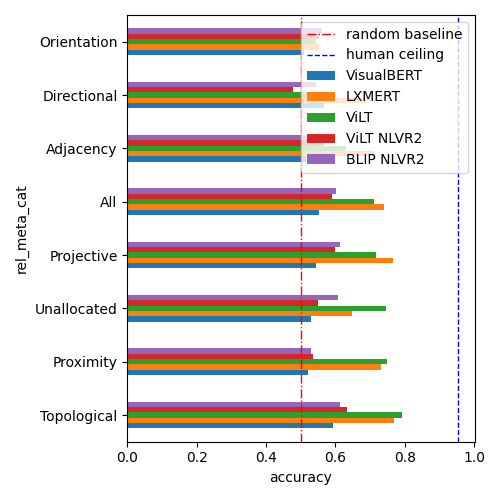
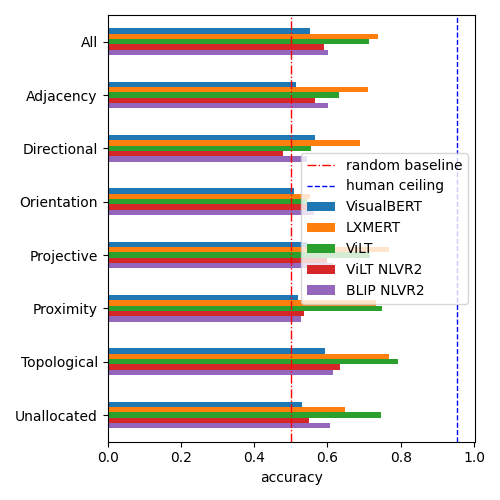
update vsr relation and meta cat results and plots

diff --git a/visual-spatial-reasoning/analysis_scripts/barplot_rel_zeroshot.py b/visual-spatial-reasoning/analysis_scripts/barplot_rel_zeroshot.py
@@ -1,30 +1,34 @@
 from matplotlib import pyplot as plt
 import pandas as pd
 
-df = pd.read_csv("results/vilt_zeroshot_rel.tsv", sep="\t", index_col=0, names=["rel", "ViLT", "occur"])
-df = df[df["occur"] >= 5]
+df_visualbert = pd.read_csv("results/visualbert_zeroshot_rel.tsv", sep="\t", index_col=0, names=["relation", "VisualBERT", "number"])
+df_visualbert = df_visualbert[["number", "VisualBERT"]]
+df = df_visualbert
 
-df_nlvr2 = pd.read_csv("results/vilt_nlvr2_zeroshot_rel.tsv", sep="\t", index_col=0, names=["rel", "ViLT NLVR2", "occur"])
-df_nlvr2 = df_nlvr2[df_nlvr2["occur"] >= 5]
-df["ViLT NLVR2"] = df_nlvr2["ViLT NLVR2"]
-
-df_nlvr2 = pd.read_csv("results/blip_nlvr2_zeroshot_rel.tsv", sep="\t", index_col=0, names=["rel", "BLIP NLVR2", "occur"])
-df_nlvr2 = df_nlvr2[df_nlvr2["occur"] >= 5]
-df["BLIP NLVR2"] = df_nlvr2["BLIP NLVR2"]
-
-df_visualbert = pd.read_csv("results/visualbert_zeroshot_rel.tsv", sep="\t", index_col=0, names=["rel", "VisualBERT", "occur"])
-df_visualbert = df_visualbert[df_visualbert["occur"] >= 5]
-df["VisualBERT"] = df_visualbert["VisualBERT"]
-
-df_lxmert = pd.read_csv("results/lxmert_zeroshot_rel.tsv", sep="\t", index_col=0, names=["rel", "LXMERT", "occur"])
-df_lxmert = df_lxmert[df_lxmert["occur"] >= 5]
+df_lxmert = pd.read_csv("results/lxmert_zeroshot_rel.tsv", sep="\t", index_col=0, names=["relation", "LXMERT", "number"])
 df["LXMERT"] = df_lxmert["LXMERT"]
+
+df_vilt = pd.read_csv("results/vilt_zeroshot_rel.tsv", sep="\t", index_col=0, names=["relation", "ViLT", "number"])
+df["ViLT"] = df_vilt["ViLT"]
+
+df_vilt_nlvr2 = pd.read_csv("results/vilt_nlvr2_zeroshot_rel.tsv", sep="\t", index_col=0, names=["relation", "ViLT NLVR2", "number"])
+df["ViLT NLVR2"] = df_vilt_nlvr2["ViLT NLVR2"]
+
+df_blip_nlvr2 = pd.read_csv("results/blip_nlvr2_zeroshot_rel.tsv", sep="\t", index_col=0, names=["relation", "BLIP NLVR2", "number"])
+df["BLIP NLVR2"] = df_blip_nlvr2["BLIP NLVR2"]
+
+df.round(2).to_csv("results/zeroshot_rel.tsv", sep="\t")
+
+df = df[df["number"] >= 5]
+
+df.round(2).to_latex("results/zeroshot_rel.tex")
 
 ax = df.plot.bar(y=["VisualBERT", "LXMERT", "ViLT", "ViLT NLVR2", "BLIP NLVR2"], figsize=(15,5))
 
 plt.axhline(y=0.5, linewidth=1, color='r', linestyle="dashdot", label="random baseline")
 plt.axhline(y=0.954, linewidth=1, color='b', linestyle="dashed", label="human ceiling")
 plt.legend()
+plt.xlabel("")
 plt.ylabel("accuracy")
 plt.tight_layout()
 

diff --git a/visual-spatial-reasoning/analysis_scripts/barplot_rel_random.py b/visual-spatial-reasoning/analysis_scripts/barplot_rel_random.py
@@ -1,30 +1,34 @@
 from matplotlib import pyplot as plt
 import pandas as pd
 
-df = pd.read_csv("results/vilt_random_rel.tsv", sep="\t", index_col=0, names=["rel", "ViLT", "occur"])
-df = df[df["occur"] >= 15]
+df_visualbert = pd.read_csv("results/visualbert_random_rel.tsv", sep="\t", index_col=0, names=["relation", "VisualBERT", "number"])
+df_visualbert = df_visualbert[["number", "VisualBERT"]]
+df = df_visualbert
 
-df_nlvr2 = pd.read_csv("results/vilt_nlvr2_random_rel.tsv", sep="\t", index_col=0, names=["rel", "ViLT NLVR2", "occur"])
-df_nlvr2 = df_nlvr2[df_nlvr2["occur"] >= 15]
-df["ViLT NLVR2"] = df_nlvr2["ViLT NLVR2"]
-
-df_nlvr2 = pd.read_csv("results/blip_nlvr2_random_rel.tsv", sep="\t", index_col=0, names=["rel", "BLIP NLVR2", "occur"])
-df_nlvr2 = df_nlvr2[df_nlvr2["occur"] >= 15]
-df["BLIP NLVR2"] = df_nlvr2["BLIP NLVR2"]
-
-df_visualbert = pd.read_csv("results/visualbert_random_rel.tsv", sep="\t", index_col=0, names=["rel", "VisualBERT", "occur"])
-df_visualbert = df_visualbert[df_visualbert["occur"] >= 15]
-df["VisualBERT"] = df_visualbert["VisualBERT"]
-
-df_lxmert = pd.read_csv("results/lxmert_random_rel.tsv", sep="\t", index_col=0, names=["rel", "LXMERT", "occur"])
-df_lxmert = df_lxmert[df_lxmert["occur"] >= 15]
+df_lxmert = pd.read_csv("results/lxmert_random_rel.tsv", sep="\t", index_col=0, names=["relation", "LXMERT", "number"])
 df["LXMERT"] = df_lxmert["LXMERT"]
+
+df_vilt = pd.read_csv("results/vilt_random_rel.tsv", sep="\t", index_col=0, names=["relation", "ViLT", "number"])
+df["ViLT"] = df_vilt["ViLT"]
+
+df_vilt_nlvr2 = pd.read_csv("results/vilt_nlvr2_random_rel.tsv", sep="\t", index_col=0, names=["relation", "ViLT NLVR2", "number"])
+df["ViLT NLVR2"] = df_vilt_nlvr2["ViLT NLVR2"]
+
+df_blip_nlvr2 = pd.read_csv("results/blip_nlvr2_random_rel.tsv", sep="\t", index_col=0, names=["relation", "BLIP NLVR2", "number"])
+df["BLIP NLVR2"] = df_blip_nlvr2["BLIP NLVR2"]
+
+df.round(2).to_csv("results/random_rel.tsv", sep="\t")
+
+df = df[df["number"] >= 15]
+
+df.round(2).to_latex("results/random_rel.tex")
 
 ax = df.plot.bar(y=["VisualBERT", "LXMERT", "ViLT", "ViLT NLVR2", "BLIP NLVR2"], figsize=(15,5))
 
 plt.axhline(y=0.5, linewidth=1, color='r', linestyle="dashdot", label="random baseline")
 plt.axhline(y=0.954, linewidth=1, color='b', linestyle="dashed", label="human ceiling")
 plt.legend()
+plt.xlabel("")
 plt.ylabel("accuracy")
 plt.tight_layout()
 

diff --git a/visual-spatial-reasoning/analysis_scripts/barplot_rel_meta_cat_zeroshot.py b/visual-spatial-reasoning/analysis_scripts/barplot_rel_meta_cat_zeroshot.py
@@ -1,26 +1,33 @@
 from matplotlib import pyplot as plt
 import pandas as pd
 
-df = pd.read_csv("results/vilt_zeroshot_rel_meta_cat.tsv", sep="\t", index_col=0, names=["rel_meta_cat", "ViLT", "occur"])
+df_visualbert = pd.read_csv("results/visualbert_zeroshot_rel_meta_cat.tsv", sep="\t", index_col=0, names=["category", "VisualBERT", "number"])
+df_visualbert = df_visualbert[["number", "VisualBERT"]]
+df = df_visualbert
 
-df_nlvr2 = pd.read_csv("results/vilt_nlvr2_zeroshot_rel_meta_cat.tsv", sep="\t", index_col=0, names=["rel_meta_cat", "ViLT NLVR2", "occur"])
-df["ViLT NLVR2"] = df_nlvr2["ViLT NLVR2"]
-
-df_blip_nlvr2 = pd.read_csv("results/blip_nlvr2_zeroshot_rel_meta_cat.tsv", sep="\t", index_col=0, names=["rel_meta_cat", "BLIP NLVR2", "occur"])
-df["BLIP NLVR2"] = df_blip_nlvr2["BLIP NLVR2"]
-
-df_visualbert = pd.read_csv("results/visualbert_zeroshot_rel_meta_cat.tsv", sep="\t", index_col=0, names=["rel", "VisualBERT", "occur"])
-df["VisualBERT"] = df_visualbert["VisualBERT"]
-
-df_lxmert = pd.read_csv("results/lxmert_zeroshot_rel_meta_cat.tsv", sep="\t", index_col=0, names=["rel", "LXMERT", "occur"])
+df_lxmert = pd.read_csv("results/lxmert_zeroshot_rel_meta_cat.tsv", sep="\t", index_col=0, names=["category", "LXMERT", "number"])
 df["LXMERT"] = df_lxmert["LXMERT"]
 
+df_vilt = pd.read_csv("results/vilt_zeroshot_rel_meta_cat.tsv", sep="\t", index_col=0, names=["category", "ViLT", "number"])
+df["ViLT"] = df_vilt["ViLT"]
+
+df_nlvr2 = pd.read_csv("results/vilt_nlvr2_zeroshot_rel_meta_cat.tsv", sep="\t", index_col=0, names=["category", "ViLT NLVR2", "number"])
+df["ViLT NLVR2"] = df_nlvr2["ViLT NLVR2"]
+
+df_blip_nlvr2 = pd.read_csv("results/blip_nlvr2_zeroshot_rel_meta_cat.tsv", sep="\t", index_col=0, names=["category", "BLIP NLVR2", "number"])
+df["BLIP NLVR2"] = df_blip_nlvr2["BLIP NLVR2"]
+
 ax = df.plot.barh(y=["VisualBERT", "LXMERT", "ViLT", "ViLT NLVR2", "BLIP NLVR2"], figsize=(5,5))
+
+df.round(2).to_csv("results/zeroshot_rel_meta_cat.tsv", sep="\t")
+df.round(2).to_latex("results/zeroshot_rel_meta_cat.tex")
 
 plt.axvline(x=0.5, linewidth=1, color='r', linestyle="dashdot", label="random baseline")
 plt.axvline(x=0.954, linewidth=1, color='b', linestyle="dashed", label="human ceiling")
 plt.legend()
 plt.xlabel("accuracy")
+plt.ylabel("")
+plt.gca().invert_yaxis()
 plt.tight_layout()
 
 fig = ax.get_figure()

diff --git a/visual-spatial-reasoning/analysis_scripts/barplot_rel_meta_cat_random.py b/visual-spatial-reasoning/analysis_scripts/barplot_rel_meta_cat_random.py
@@ -1,19 +1,24 @@
 from matplotlib import pyplot as plt
 import pandas as pd
 
-df = pd.read_csv("results/vilt_random_rel_meta_cat.tsv", sep="\t", index_col=0, names=["rel_meta_cat", "ViLT", "occur"])
+df_visualbert = pd.read_csv("results/visualbert_random_rel_meta_cat.tsv", sep="\t", index_col=0, names=["category", "VisualBERT", "number"])
+df_visualbert = df_visualbert[["number", "VisualBERT"]]
+df = df_visualbert
 
-df_nlvr2 = pd.read_csv("results/vilt_nlvr2_random_rel_meta_cat.tsv", sep="\t", index_col=0, names=["rel_meta_cat", "ViLT NLVR2", "occur"])
+df_lxmert = pd.read_csv("results/lxmert_random_rel_meta_cat.tsv", sep="\t", index_col=0, names=["category", "LXMERT", "number"])
+df["LXMERT"] = df_lxmert["LXMERT"]
+
+df_vilt = pd.read_csv("results/vilt_random_rel_meta_cat.tsv", sep="\t", index_col=0, names=["category", "ViLT", "number"])
+df["ViLT"] = df_vilt["ViLT"]
+
+df_nlvr2 = pd.read_csv("results/vilt_nlvr2_random_rel_meta_cat.tsv", sep="\t", index_col=0, names=["category", "ViLT NLVR2", "number"])
 df["ViLT NLVR2"] = df_nlvr2["ViLT NLVR2"]
 
-df_blip_nlvr2 = pd.read_csv("results/blip_nlvr2_random_rel_meta_cat.tsv", sep="\t", index_col=0, names=["rel_meta_cat", "BLIP NLVR2", "occur"])
+df_blip_nlvr2 = pd.read_csv("results/blip_nlvr2_random_rel_meta_cat.tsv", sep="\t", index_col=0, names=["category", "BLIP NLVR2", "number"])
 df["BLIP NLVR2"] = df_blip_nlvr2["BLIP NLVR2"]
 
-df_visualbert = pd.read_csv("results/visualbert_random_rel_meta_cat.tsv", sep="\t", index_col=0, names=["rel", "VisualBERT", "occur"])
-df["VisualBERT"] = df_visualbert["VisualBERT"]
-
-df_lxmert = pd.read_csv("results/lxmert_random_rel_meta_cat.tsv", sep="\t", index_col=0, names=["rel", "LXMERT", "occur"])
-df["LXMERT"] = df_lxmert["LXMERT"]
+df.round(2).to_csv("results/random_rel_meta_cat.tsv", sep="\t")
+df.round(2).to_latex("results/random_rel_meta_cat.tex")
 
 ax = df.plot.barh(y=["VisualBERT", "LXMERT", "ViLT", "ViLT NLVR2", "BLIP NLVR2"], figsize=(5,5))
 
@@ -21,6 +26,8 @@ plt.axvline(x=0.5, linewidth=1, color='r', linestyle="dashdot", label="random ba
 plt.axvline(x=0.954, linewidth=1, color='b', linestyle="dashed", label="human ceiling")
 plt.legend()
 plt.xlabel("accuracy")
+plt.ylabel("")
+plt.gca().invert_yaxis()
 plt.tight_layout()
 
 fig = ax.get_figure()

diff --git a/visual-spatial-reasoning/analysis_scripts/eval_compute_acc_by_rel_meta_cat.py b/visual-spatial-reasoning/analysis_scripts/eval_compute_acc_by_rel_meta_cat.py
@@ -54,7 +54,7 @@ for i, instance in enumerate(data_json):
 for k,v in cat_dict.items():
     cat_acc[k] = (sum(v)/len(v), len(v))
 
-cat_acc_sorted = {k: v for k, v in sorted(cat_acc.items(), key=lambda item: item[1][0], reverse=True)}
+cat_acc_sorted = {k: v for k, v in sorted(cat_acc.items(), key=lambda item: item[0][0], reverse=False)}
 
 #for k,v in cat_acc.items():
 for k,v in cat_acc_sorted.items():
